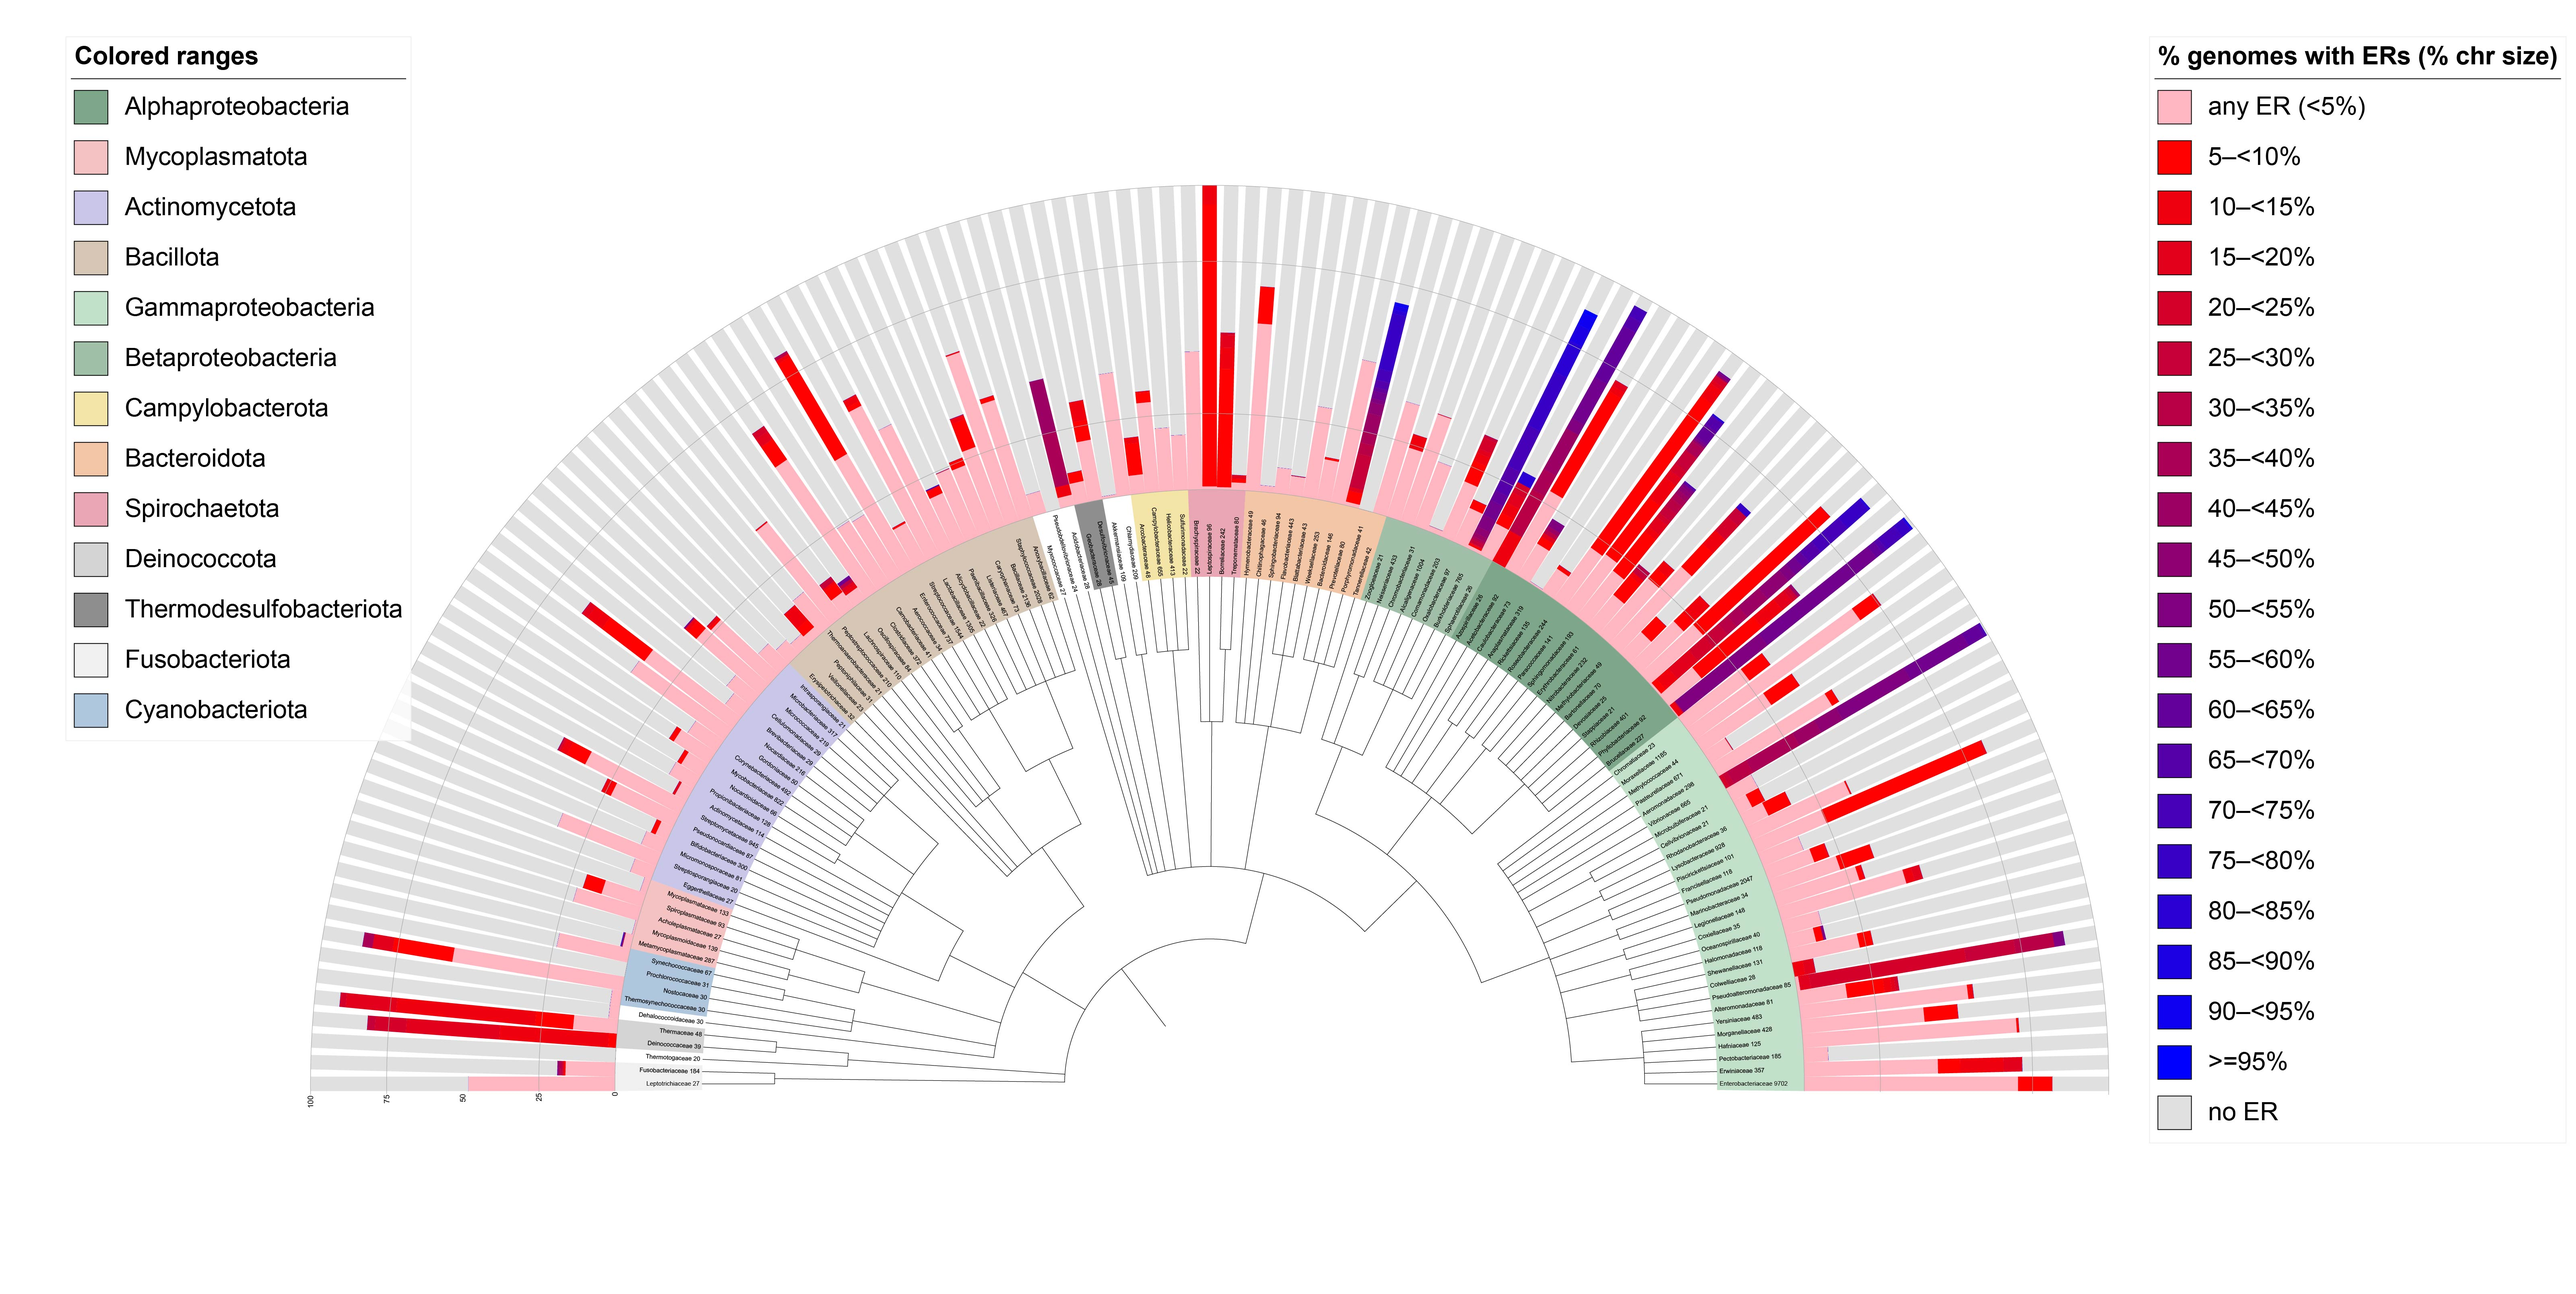
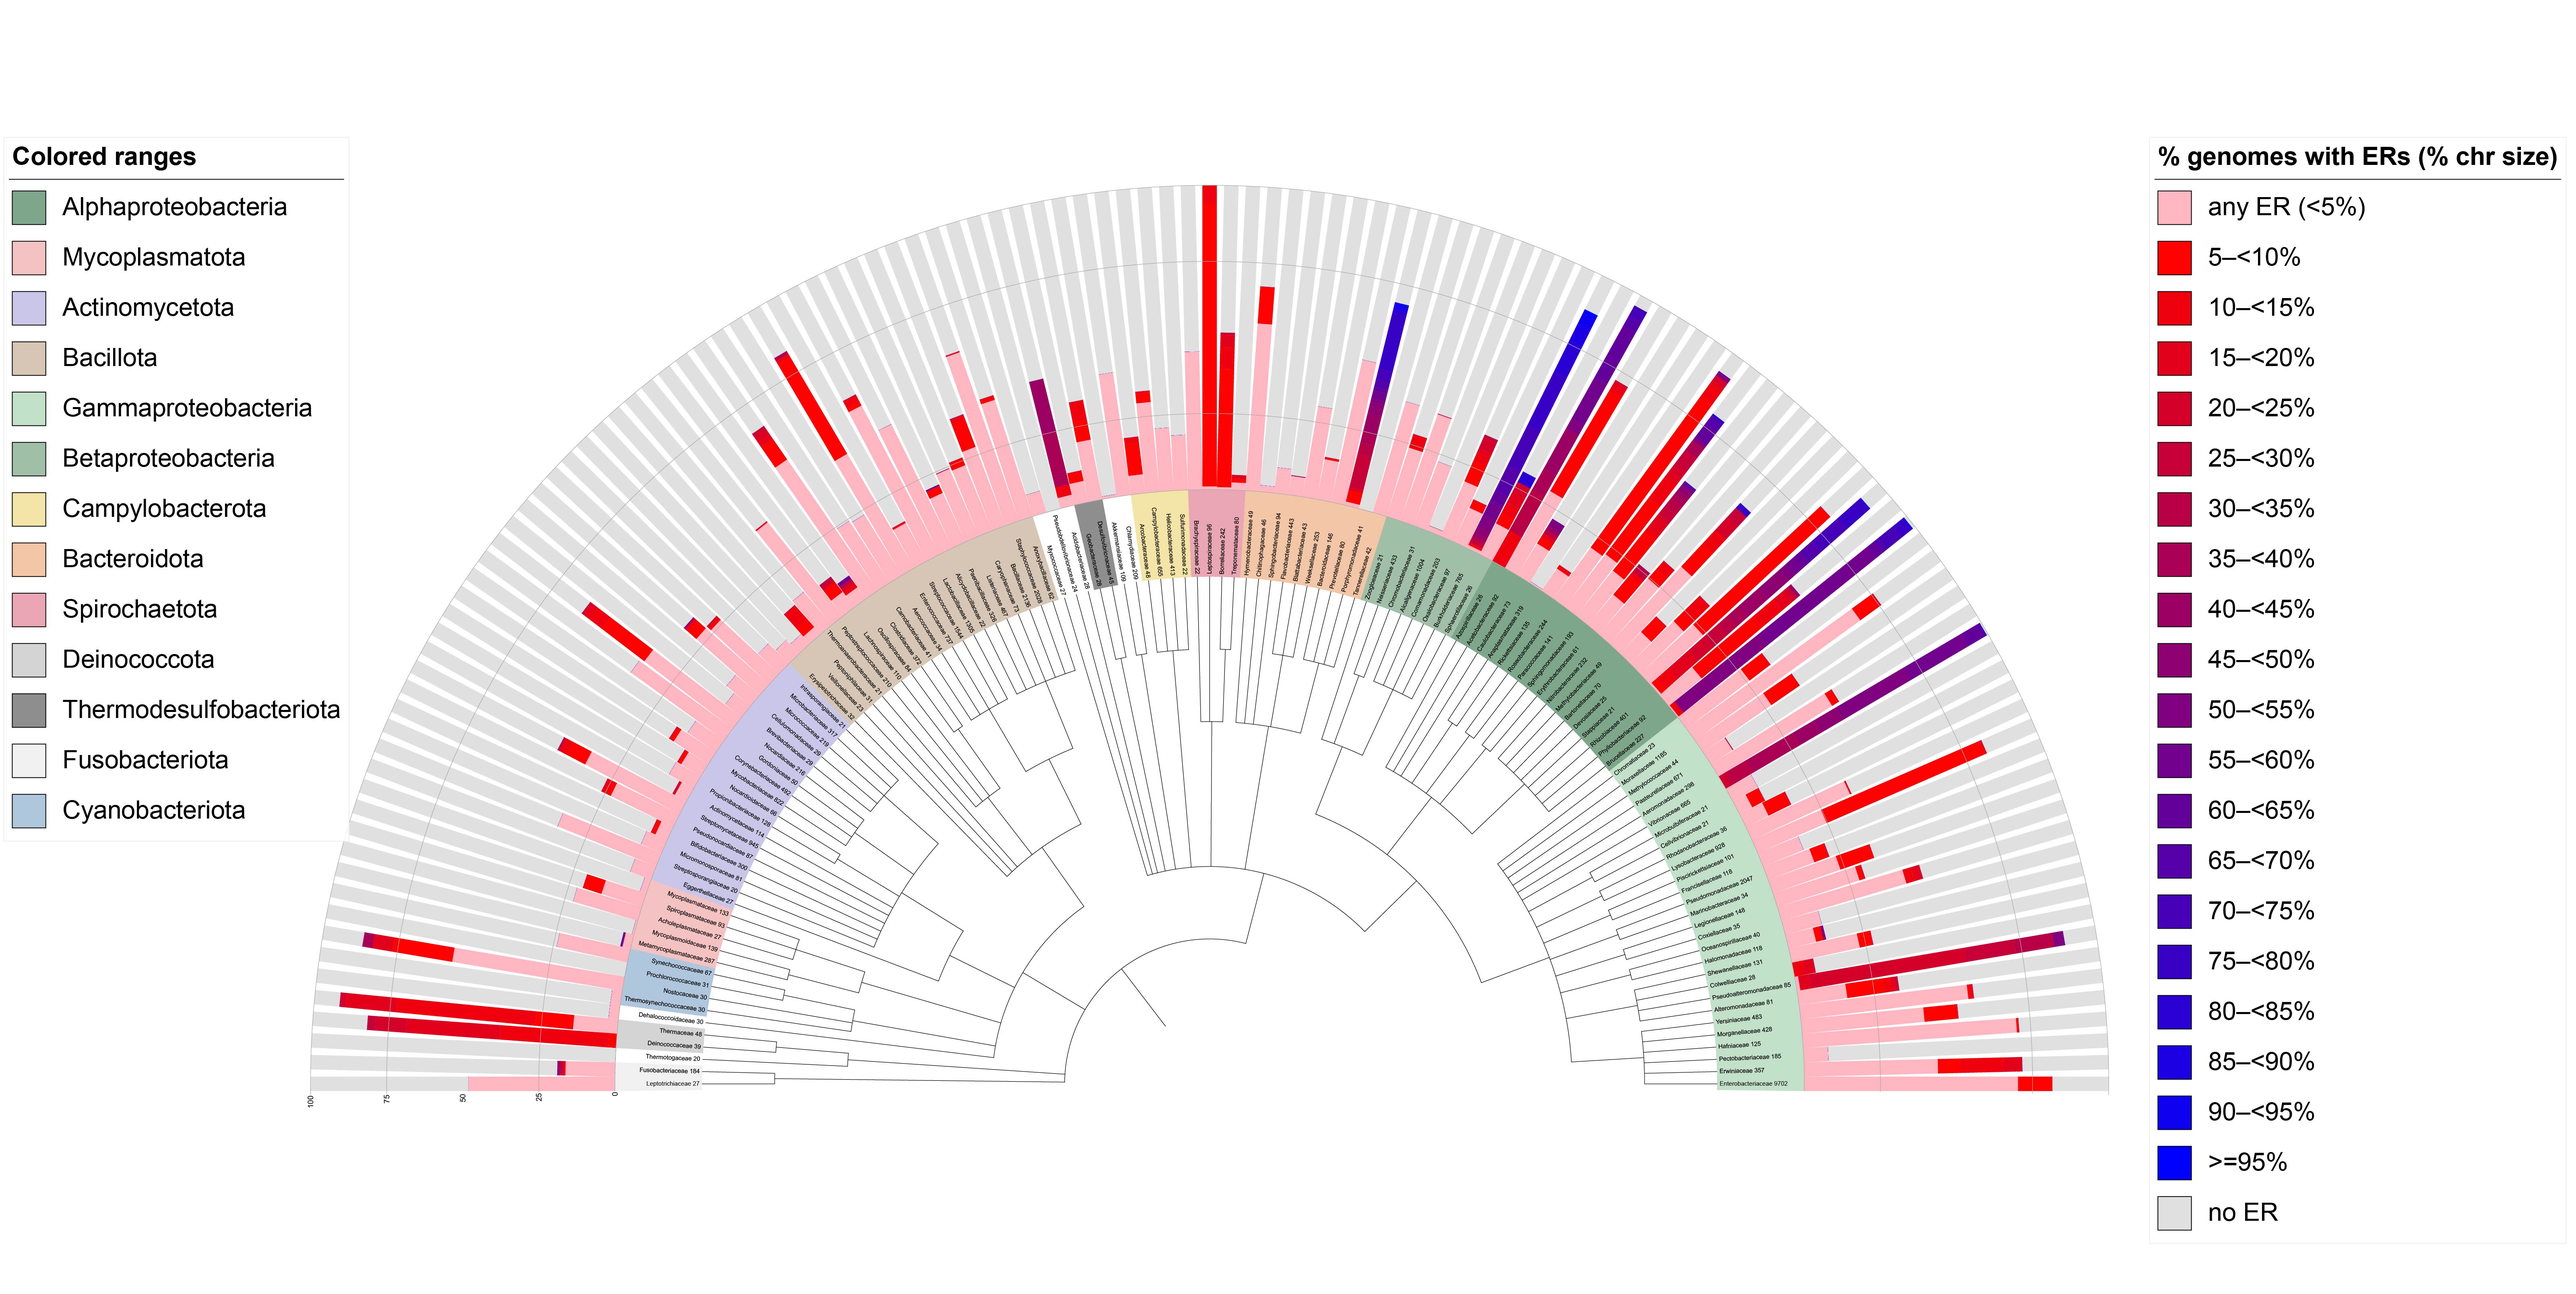
update

Changed region(s): [[0.8125, 0.0311, 1.0, 0.9636], [0.0, 0.0311, 0.1562, 0.6528]]

diff --git a/index.html b/index.html
@@ -9,48 +9,6 @@
     <!-- DataTables CSS -->
 <link rel="stylesheet" type="text/css" href="https://cdn.datatables.net/1.13.4/css/jquery.dataTables.css" />
 
-<!-- CSS intégré pour corriger le hero -->
-    <style>
-        body {
-            margin: 0;
-            font-family: 'Inter', sans-serif;
-        }
-
-        .hero {
-            background-image: url("background.jpg"); /header_photo_tree/
-            background-size: cover;
-            background-position: center;
-            min-height: 65vh;
-            display: flex;
-            align-items: center;
-        }
-
-        .hero-overlay {
-            padding: 4rem 6rem;
-            max-width: 1100px;
-        }
-
-        .hero h1 {
-            font-size: clamp(1.8rem, 3vw, 2.6rem);
-            line-height: 1.2;
-            margin-bottom: 1.5rem;
-        }
-
-        .authors {
-            font-size: 1rem;
-            line-height: 1.5;
-        }
-
-        @media (max-width: 800px) {
-            .hero {
-                min-height: 75vh;
-            }
-
-            .hero-overlay {
-                padding: 2rem 1.5rem;
-            }
-        }
-    </style>
 
 <!-- jQuery -->
 <script src="https://code.jquery.com/jquery-3.5.1.js"></script>
